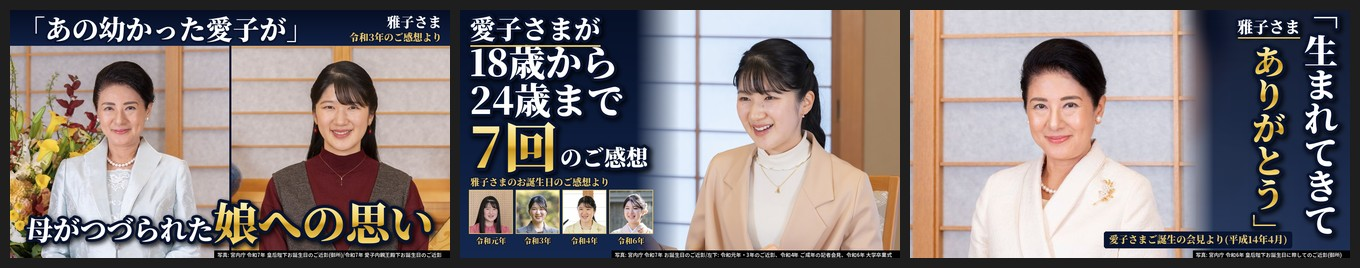
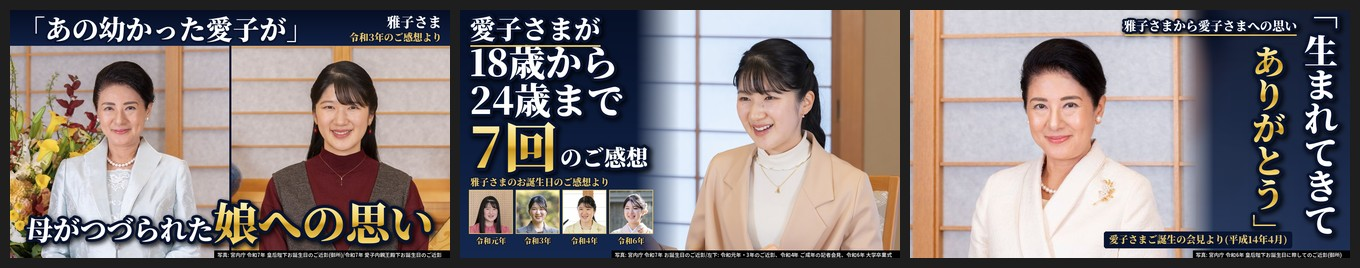
L4 表紙B・C 荒木指示の文字・ショート3本 書き出し(qa完成)
Claude-Session: https://claude.ai/code/session_01BJaPieHBuTRAAQkfULpzEX

Changed region(s): [[0.8029, 0.0597, 0.9574, 0.1493]]

diff --git a/projects/KB-20261125-01/thumb/make_thumbs.py b/projects/KB-20261125-01/thumb/make_thumbs.py
@@ -31,6 +31,8 @@ python3 projects/KB-20261125-01/thumb/make_thumbs.py で thumb_A.png・thumb_B.p
       縦書きのかぎかっこは縦書き用の字形(﹁ ﹂)のまま、文字と離して置き直した(前は「生」「う」に食い込んで横書きの形に見えた)
 2026-11-25 直し係(荒木指示 2026-11-25。表紙B の文字だけ。A・C は触らない):
   B = 左上の主語の表示「愛子さま」→「愛子さまが」。ほかの文字・出典・写真・構図はそのまま
+2026-11-25 直し係(追加の荒木指示 2026-11-25。表紙C の小さな文字だけ。A は触らない):
+  C = 小さな「雅子さま」→「雅子さまから愛子さまへの思い」(横書き1行・36px・右寄せ)。縦書きの引用・出典・写真・構図はそのまま
 """
 import sys
 from pathlib import Path
@@ -202,8 +204,9 @@ def v1(out, path, focus, fh, xy, col_w, col_g, src, cap, who=None):
         return y
     column(*col_w); yb = column(*col_g)
     if who:   # 誰の言葉か: 金の行の上(横書き・小さめ)。(文字, 大きさ, 中心y)。下に細い金の線
-        ws, wn, wy = who
-        text(im, (col_g[0], wy), ws, wn, sw=6, anchor="mm"); wb = bbox(im, (col_g[0], wy), ws, wn, "mm", 6); boxes.append(wb)
+        ws, wn, wy = who[:3]
+        wx, wa = (who[3], "rm") if len(who) > 3 else (col_g[0], "mm")   # 4つ目があれば右端の x(右寄せ)。長い一言を白い行の左に収める
+        text(im, (wx, wy), ws, wn, sw=6, anchor=wa); wb = bbox(im, (wx, wy), ws, wn, wa, 6); wbox = tuple(int(v) for v in wb)
         ImageDraw.Draw(im).rectangle((wb[0] + 8, wb[3] + 1, wb[2] - 8, wb[3] + 4), fill=SRC_GOLD)
     # 出典(小さく・金の行の下)。文字の数には入れない
     sx = col_g[0] + col_g[3] // 2 + 6
@@ -211,15 +214,17 @@ def v1(out, path, focus, fh, xy, col_w, col_g, src, cap, who=None):
     sb = (sb[0] - 12, sb[1] - 5, sb[2] + 10, sb[3] + 5)   # 出典が写真(白いお召し物)にかかるので、濃紺の札を敷いて読めるようにする
     ImageDraw.Draw(im).rounded_rectangle(sb, radius=6, fill=(8, 20, 48))
     text(im, (sx, yb + 30), src, 28, fill=SRC_GOLD, sw=3, shadow=False, anchor="rm")
-    tbox = union(boxes + [sb])
+    tbox = union(boxes + [sb] + ([wbox] if who else []))
     if tbox[3] > H - 24 or tbox[2] > W - 8 or tbox[1] < 4:
         raise SystemExit(f"{out}: 縦書きの文字が画面からはみ出しています {tbox}")
     credit(im, cap, [tbox], right=CREDIT_RIGHT)
     im.save(out)
     # お顔との重なりは、縦書き(名前を含む)の枠と出典の札を別々の枠で確かめる(まとめた1つの枠だと、文字のない所までお顔と重なる扱いになるため)
     cbox = union(boxes); sbox = tuple(int(v) for v in sb)
-    print(out, "縦書きの枠", cbox, "/ 出典の札", sbox, "/ 全体", tbox)
-    if not check_faces(out, faces, [cbox, sbox]):
+    if who and any(wbox[0] < b[2] and wbox[2] > b[0] and wbox[1] < b[3] and wbox[3] + 4 > b[1] for b in boxes):
+        raise SystemExit(f"{out}: 上の一言が縦書きの文字と重なっています {wbox}")
+    print(out, "縦書きの枠", cbox, "/ 上の一言", wbox if who else None, "/ 出典の札", sbox, "/ 全体", tbox, "/ お顔", [tuple(int(v) for v in head_box(f)) for f in faces])
+    if not check_faces(out, faces, [cbox, sbox] + ([wbox] if who else [])):
         raise SystemExit(f"{out}: お顔が文字と重なるか見切れています")
 
 
@@ -238,14 +243,15 @@ r1(O + "thumb_B.png", A + "A059.jpg", (385 / 666, 425 / 1000, 150 / 1000), 205, 
 
 # C 人物の物語型(題名C): 雅子さまお一人の写真 A021(令和6年 皇后陛下お誕生日のご近影・長辺1000px)を1枚・左寄せ(お顔は左1/3)。
 #   右に縦書きで「生まれてきて/ありがとう」(平成14年4月2日 御誕生につき記者会見の原文の一部を一字一句)。右の行=白・左の行=金
-#   文字は1か所(縦書き2行・11字＋かぎかっこ)＋小さい名前「雅子さま」(金の行の上)＋小さい出典。上の帯は使わない
+#   文字は縦書き2行・11字＋かぎかっこ＋上の小さい一言「雅子さまから愛子さまへの思い」(横書き・かぎかっこなし＝当チャンネルの見出し。
+#   荒木指示 2026-11-25 で「雅子さま」から替えた。金の行の上・白い行の左に右寄せ)＋小さい出典。上の帯は使わない
 #   かぎかっこ内は原文の一部のまま。呼びかけ(「愛子、」など)は原文にないので足さない
 #   言葉は平成14年・写真は令和6年なので、出典「愛子さまご誕生の会見より(平成14年4月)」とクレジット「令和6年」で年を分けて示す(年月は会見の日付。ご誕生は平成13年12月1日)
 v1(O + "thumb_C.png", A + "A021.jpg", None, 245, (425, 305),
    (1196, 12, "生まれてきて", 98, "white", "﹁", None),
    (1044, 96, "ありがとう", 96, "gold", None, "﹂"),
    "愛子さまご誕生の会見より(平成14年4月)",
-   "写真: 宮内庁 令和6年 皇后陛下お誕生日に際してのご近影(御所)", who=("雅子さま", 46, 46))
+   "写真: 宮内庁 令和6年 皇后陛下お誕生日に際してのご近影(御所)", who=("雅子さまから愛子さまへの思い", 36, 44, 1126))
 
 # 3枚を縮小して並べた一覧(ひと目で別の表紙に見えるかの確認用)
 sheet = Image.new("RGB", (3 * 440 + 40, 248 + 20), (30, 30, 30))

diff --git a/projects/KB-20261125-03/factcheck.md b/projects/KB-20261125-03/factcheck.md
@@ -1,109 +1,111 @@
-# 事実確認 KB-20261125-03(縦型・誘導用ショート S2「令和3年 雅子さまのご感想 ― あの幼かった愛子が」)
+# 事実確認 KB-20261125-03(縦型・誘導用ショート S2「令和3年 雅子さまのご感想 ― あの幼かった愛子が」)【再照合・直しの後】
 
-確認日: 2026-11-25 / 事実確認係
-照合対象: script.md(9場面・12カット)/ scenes.json(ナレーション・字幕・根拠ID・画面の人物名 person_label / labels・撮影情報 caption / captions・match)/ ledger.csv(使用12枚)/ publish.yaml(題名)/ facts.md
-方法: 宮内庁の各ページをこの係が 2026-11-25 に curl で取り直し、ルビ(`<rt>`)とタグを除いた全文と照合した。かぎかっこの引用は scenes.json のナレーションから機械で抜き出し、原文に同じ文字列があるかを確かめた(読点「，」・句点も含む)。字幕(subtitle_lines / subtitle)は全場面をつなげてナレーションと比べた。script.md の場面表と scenes.json(ナレーション・画像・人物名・撮影情報・根拠ID)も全場面を比べた。写真は ledger.csv の掲載ページを全て取り直し、説明文・注記・日付を読み、素材ファイルが掲載元の画像と同じもの(SHA-256 一致)であることも確かめた。
+確認日: 2026-11-25(2回目)/ 事実確認係
+照合対象: fixes.md の直し(直し係の分と、親=進行役の判断の分)を反映した script.md(10場面・13カット)/ scenes.json(ナレーション・字幕 subtitle_lines・根拠ID・画面の人物名・撮影情報・match)/ ledger.csv(使用13枚)/ publish.yaml・plan.md(題名)/ facts.md
+方法: 宮内庁の各ページをこの係が 2026-11-25 にもう一度 curl で取り直し、ルビとタグを除いた全文と照合した。かぎかっこの引用は scenes.json から機械で抜き出し、原文に同じ文字列があるかを確かめた。字幕(subtitle_lines)は全場面をつなげてナレーションと1字ずつ比べた(読点・句点も見た。書き出しの道具の照合は今は読点を無視するので、この係は無視せずに比べた)。script.md の場面表と scenes.json は全場面・全欄を比べた。写真は ledger.csv の掲載ページと画像を全て取り直し、説明文・注記・日付を読み、素材ファイルが掲載元の画像と同じもの(SHA-256 一致)であることを確かめた。新しく入った写真は素材も目で見た(写っている人数と場面だけ。お顔での識別はしていない)。
 区分: 確認済 = 宮内庁の原文で確認 / 分析 = この動画の整理と分かる言い方 / single_source = 出どころが1つで原典を開けない(使わせない)/ unverified = 確認できない(使わせない)
-大手報道との照合: 今回の事実は全て宮内庁の原文で足りるため、報道は根拠に使っていない(親 KB-20261125-01 の確認時、NHK・時事・朝日・読売・毎日はこの環境の通信許可の外で開けなかった)。報道1社だけを根拠にした事実はない。
+大手報道との照合: 事実は全て宮内庁の原文で足りるため、報道は根拠に使っていない(報道各社はこの環境の通信許可の外)。報道1社だけを根拠にした事実はない。single_source・unverified は0件。
 
 ## 出典(今回取り直したもの)
 - K3: 皇后陛下お誕生日に際し(令和3年)ご感想 https://www.kunaicho.go.jp/watch/okotoba/imperial-family01/press-conference/empress2021.html
-- K1〜K7: 同(令和元〜7年) empress2019.html 〜 empress2025.html(empress2026.html は 404)
-- CP: 皇太子妃殿下お誕生日に際し(平成30年) 同 /press-conference/crownprincess2018.html、一覧 同 /press-conference/
+- K1〜K7: 同(令和元〜7年) empress2019.html 〜 empress2025.html(empress2026.html は今日も 404)
 - SK: 愛子内親王殿下ご成年をお迎えになっての記者会見 https://www.kunaicho.go.jp/watch/activity/activity01/activity01-r040317.html
 - H01: 天皇ご一家(ご略歴) https://www.kunaicho.go.jp/learn/about/history/history01.html
-- 写真の掲載ページ: 第4節の表のURL(全て宮内庁)
+- 写真の掲載ページ: 第4節の表(全て宮内庁)。新年のご近影の年は英語版 https://www.kunaicho.go.jp/en/newyear/r03-0101-ph.html の題名で確認
 
 ## 0. 結論(先に)
 
-- かぎかっこの引用2か所(02-2・03-2)は、どちらも K3 の原文の1文全体と一字一句同じ(読点は全角カンマ「，」、文末の句点まで)。
-- 2文は原文で続いており(④→⑤)、03-1「この文に続けて書かれた」は確認済。
-- 「くれて」入りの形も「生まれてきてありがとう」も、この1本には出てこない。
-- 撮影情報の日付・年・場所は、12枚とも掲載ページと合う。
-- **修正必須が1件ある。** 05-1 の誘導文「7回のご感想」は、限定がないと宮内庁の掲載と合わない(第5節 修正1)。
-- 要確認は3件(第6節)。
+- 前回の修正必須(05-1「7回のご感想」)は直っている。今の文「雅子さまのお誕生日のご感想は、長い動画でたどります。」は確認済。「7回」は画面に出る文字・ナレーション・match のどこにもない(機械照合で0件)。
+- 題名「…愛子さまが成年を迎えた年に書かれた一文とは？」は確認済(第3節)。
+- かぎかっこの引用2か所は、ナレーションでは K3 の原文の1文全体と一字一句同じ(全角カンマ「，」・句点まで)。
+- 新しい場面 04-1(まとめ)と、新しく入った写真 A031・A041 の人物名・撮影情報は確認済。A042(代替テキストと人数が合わない1枚)は使われなくなった。
+- 修正必須は0件。軽い直しが2件(画面に出ない書類。第5節)。
+- **要確認が1件、荒木さんの判断が要る。** 02-2 の字幕だけ、引用の中の読点「，」が1つ省かれている(第6節 要確認1)。言葉は原文と同じで、ナレーションは原文のまま。
 
-## 1. ナレーションの照合(全9場面)
+## 1. ナレーションの照合(全10場面)
 
 | 場面 | ナレーション | 結果 | 根拠 |
 |---|---|---|---|
-| 01-1 | 愛子さまの成年に雅子さまが書かれた一言とは？ | 確認済 | K3 書き出しの段落(愛子さまの成年について書かれている)。文書のご感想で「書かれた」は合う |
-| 02-1 | 令和3年、お誕生日のご感想にこう書かれています。 | 確認済 | K3 表題 `皇后陛下お誕生日に際し（令和3年）`、見出し `皇后陛下お誕生日に際してのご感想`、日付 `令和3年12月9日（木）`。ページに「会見年月日」の記載はない |
+| 01-1 | 愛子さまの成年に雅子さまが書かれた一文とは？ | 確認済 | K3 書き出しの段落 `今月初めには娘の愛子が成年を迎え，`。答え(03-2)は1文全体なので「一文」は合う。文書のご感想で「書かれた」も合う |
+| 02-1 | 令和3年、お誕生日のご感想にこう書かれています。 | 確認済 | K3 表題 `皇后陛下お誕生日に際し（令和3年）`、見出し `皇后陛下お誕生日に際してのご感想`、日付 `令和3年12月9日（木）` |
 | 02-2 | 「愛子が生まれてからの20年間は…感慨深く思います。」 | 確認済(引用一致) | 第2節 |
-| 03-1 | この文に続けて書かれた一言とは、何だったのでしょうか。 | 確認済 | K3 では 02-2 の文のすぐ後に 03-2 の文が続く(間に他の文はない) |
+| 03-1 | この文に続けて書かれた一文とは、何だったのでしょうか。 | 確認済 | K3 では 02-2 の文のすぐ後に 03-2 の文が続く(間に他の文はない) |
 | 03-2 | 答えは、「同時に，あの幼かった愛子が…気持ちもいたします。」 | 確認済(引用一致) | 第2節 |
-| 04-1 | 親としての20年が表れた一文なのかもしれません。 | 分析 | 推量の言い方。「20年」は原文の `20年間` による |
-| 05-1 | 7回のご感想は、長い動画でたどります。 | **要修正(unverified 扱い)** | 第5節 修正1 |
+| 04-1(新) | 幼かった愛子さまがもう成年かと書かれた一文でした。 | 確認済 | 原文 `あの幼かった愛子がもう成年かと思いますと，` の範囲を地の文で言い直したもの。かぎかっこはなく、原文にない言葉を足していない。「信じられない」だけの切り出しもない |
+| 04-2 | 親としての20年が表れた一文なのかもしれません。 | 分析 | 推量の言い方。「20年」は原文の `20年間` による |
+| 05-1 | 雅子さまのお誕生日のご感想は、長い動画でたどります。 | 確認済 | K1〜K7 の見出し `皇后陛下お誕生日に際してのご感想`。親 KB-20261125-01 の台本「宮内庁が公表している全文を、年の順にたどります。」と中身が合う。数・日付は言っていない |
 | 06-1 | 皆さまは、ご家族の成長をどんな時に感じますか？ | 事実なし(問いかけ) | - |
 | 06-2 | ぜひコメントでお聞かせください。 | 事実なし(お願い) | - |
 
-- 題名(publish.yaml・plan.md)「【雅子さまのお誕生日のご感想】愛子さまが成年を迎えた年に書かれた一言とは？」: 確認済(成年は令和3年12月1日、ご感想は同じ年の12月9日付。K3 `今月初めには娘の愛子が成年を迎え，`)。
-- 完成ナレーションの節と scenes.json のナレーションは9場面とも同じ文字。字幕は9場面ともナレーションと同じ文字(地の文の文末の「。」を省いているだけ。かぎかっこの中は「，」「。」まで同じ)。
-- 入っていないことを確かめたもの: 「語られた」「会見で」、「信じられない」だけの切り出し、「書き出しに出てくるのはこの年だけ」、体調に触れる段落・医師団見解、表情・内心の描写、西暦の表示。
+- script.md の完成ナレーション・場面表(ナレーション・画像・人物名・撮影情報・match・根拠)と scenes.json は10場面とも同じ。
+- 字幕は、02-2 の読点1つ(要確認1)を除き、10場面ともナレーションと同じ文字(地の文の文末の「。」を省いているだけ)。
+- 入っていないことを確かめたもの: 「7回」、「語られた」「会見で」、「一言」(本編は全て「一文」)、「信じられない」だけの切り出し、「書き出しに出てくるのはこの年だけ」、体調に触れる段落・医師団見解、表情・内心の描写、「くれて」入りの形・「生まれてきてありがとう」、西暦・公開日の表示。
 
 ## 2. かぎかっこの引用(一字一句)
 
-| 場面 | 台本・字幕の引用 | 原文(K3・取り直した本文) | 結果 |
-|---|---|---|---|
-| 02-2 | 「愛子が生まれてからの20年間は長かったようにも，あっという間だったようにも感じられますが，様々な思い出が思い起こされて感慨深く思います。」 | 書き出しの段落の4文目。同じ文字列が原文にある(文頭から句点まで1文全体) | 一致 |
-| 03-2 | 「同時に，あの幼かった愛子がもう成年かと思いますと，信じられないような気持ちもいたします。」 | 同じ段落の5文目(4文目のすぐ後)。同じ文字列が原文にある(文頭の `同時に，` から句点まで1文全体) | 一致 |
+| 場面 | 台本(ナレーション)の引用 | 原文(K3・取り直した本文) | ナレーション | 字幕 |
+|---|---|---|---|---|
+| 02-2 | 「愛子が生まれてからの20年間は長かったようにも，あっという間だったようにも感じられますが，様々な思い出が思い起こされて感慨深く思います。」 | 書き出しの段落の4文目。文頭から句点まで1文全体 | 一致 | 読点1つだけ違う(`感じられますが，` → 字幕は「感じられますが」。要確認1)。ほかの文字・読点・句点は同じ |
+| 03-2 | 「同時に，あの幼かった愛子がもう成年かと思いますと，信じられないような気持ちもいたします。」 | 同じ段落の5文目(4文目のすぐ後)。文頭の `同時に，` から句点まで1文全体 | 一致 | 一致 |
 
 - 原文の名前は `愛子`。かぎかっこの中はそのまま、地の文は「愛子さま」「雅子さま」。
-- 字幕の改行(「感じられますが，様々な」など)は文字を変えていない。
+- 「同時に，」が受ける直前の文を先に全文で読んでから答えを出しており、切り取りで意味は変わっていない。
 
 ## 3. 重点項目
 
-### 「生まれてきてくれてありがとう」と「生まれてきてありがとう」
-この1本のナレーション・字幕・撮影情報・match には、どちらの形も出てこない(機械照合で0件)。問題なし。
+### 題名「【雅子さまのお誕生日のご感想】愛子さまが成年を迎えた年に書かれた一文とは？」(publish.yaml・plan.md)
+| 部分 | 結果 | 根拠 |
+|---|---|---|
+| 雅子さまのお誕生日のご感想 | 確認済 | K3 見出し `皇后陛下お誕生日に際してのご感想` |
+| 愛子さまが成年を迎えた年 | 確認済 | H01 `平成13年12月1日ご誕生` → 令和3年12月1日に20歳。K3 は同じ年の `令和3年12月9日（木）` 付で、本文に `今月初めには娘の愛子が成年を迎え，` |
+| 書かれた | 確認済 | 文書のご感想(記者会見ではない) |
+| 一文とは？ | 確認済 | 答えは K3 の1文全体(句点まで)。「一言」より事実に合う言い方で、本編の「一文」(01-1・03-1・04-1・04-2)ともそろった |
+- 題名のかぎかっこの引用はない。西暦・日付・数もない。
+- この題名の変更は G0 承認(「一言とは？」)の後に進行役が決めたもの。事実としては問題ない。荒木さんへの報告は進行役の fixes.md のとおり、完成報告で伝えること(事実確認では承認の代わりにならない)。
 
 ### 05-1 誘導文
-第5節 修正1のとおり。
+第1節のとおり確認済。match の「7回目(令和7年)」という書き方もなくなった。
 
-## 4. 画面の人物名・撮影情報の照合(使用12枚)
+## 4. 画面の人物名・撮影情報の照合(使用13枚)
 
-素材ファイルは12枚とも掲載元の画像と SHA-256 が一致。同じ写真の使用は各1回。
+素材ファイルは13枚とも掲載元の画像と SHA-256 が一致。同じ写真の使用は各1回(13カット・13枚)。A042 は台帳に「不使用」とあり、scenes.json にも出てこない。
 
 | 場面 | 画像 | 人物名(画面) | 撮影情報(画面) | 掲載ページの記載(取り直し) | 結果 |
 |---|---|---|---|---|---|
-| 01-1 | A007 | 雅子さま | 令和3年 皇后陛下お誕生日(12月9日)に際してのご近影 | activity/gokinkyo/02/r03-1209-ph.html: 題名 `令和3年皇后陛下お誕生日に際してのご近影（お写真）`、画像 birthday1。12月9日は H01 `昭和38年12月9日` | 確認済 |
-| 02-1 | A032 | 雅子さま | 同上 | K3 のページ内の画像(data/pressConference/49/block/929/image1.jpeg)、説明 `皇后陛下お誕生日に際してのご近影`。ページの日付 `令和3年12月9日（木）` | 確認済 |
+| 01-1 | A007 | 雅子さま | 令和3年 皇后陛下お誕生日(12月9日)に際してのご近影 | gokinkyo/02/r03-1209-ph.html: 題名 `令和3年皇后陛下お誕生日に際してのご近影（お写真）`、画像 birthday1。12月9日は H01 `昭和38年12月9日` | 確認済 |
+| 02-1 | A032 | 雅子さま | 同上 | K3 のページ内の画像、説明・代替テキスト `皇后陛下お誕生日に際してのご近影`。ページの日付 `令和3年12月9日（木）` | 確認済 |
 | 02-2 | A037 | 愛子さま | 令和元年 愛子内親王殿下お誕生日(12月1日)に際してのご近影(赤坂御所) | activity01-r011201ph3.html: `令和元年12月1日`、`（赤坂御所にて）`、1枚目・代替テキスト `愛子内親王殿下のお写真` | 確認済 |
 | 02-2 | A040 | 愛子さま | 令和2年 愛子内親王殿下お誕生日(12月1日)に際してのご近影(赤坂御用地) | activity01-r021201ph3.html: `令和2年12月1日`、`（赤坂御用地にて）`、1枚目・代替テキスト `愛子内親王殿下のお写真` | 確認済 |
-| 02-2 | A042 | 愛子さま | 令和2年 愛子内親王殿下お誕生日(12月1日)に際してのご近影 | 同ページの3枚目。代替テキストは `皇太子殿下及び愛子内親王殿下のお写真` だが、写っているのはお一人と犬1頭(素材を見て確認)。ページ題名は `愛子内親王殿下のお誕生日に際してのご近影` | 確認済(要確認2) |
-| 03-1 | A069 | 天皇皇后両陛下・愛子さま | 令和3年 新年をお迎えになったご一家のご近影(赤坂御所) | activity/gokinkyo/newyear/r03-0101-ph.html: `（赤坂御所にて）`、代替テキスト `新年をお迎えになった天皇皇后両陛下及び愛子内親王殿下のお写真`。年は英語版 en/newyear/r03-0101-ph.html の題名 `New Year (2021)` | 確認済 |
-| 03-2 | A043 | 愛子さま | 令和3年 愛子内親王殿下お誕生日(12月1日)に際してのご近影(御所御内庭) | activity01-r031201ph3.html: `令和3年12月1日`、`（御所御内庭（大池付近）にて）` の後に1枚目(代替テキスト `愛子内親王殿下のお写真`)・2枚目 | 確認済 |
+| 02-2 | A041(新規) | 愛子さま | 令和2年 愛子内親王殿下お誕生日(12月1日)に際してのご近影 | 同ページの2枚目。代替テキスト `愛子内親王殿下のお写真`。写っているのはお一人と犬1頭。撮影情報に場所は出していない | 確認済(前回の要確認2は解消。代替テキストと写る人数が合う写真になった) |
+| 03-1 | A031(新規) | 雅子さま | 令和2年 皇后陛下お誕生日(12月9日)に際してのご近影 | empress2020.html(表題 `皇后陛下お誕生日に際し（令和2年）`、日付 `令和2年12月9日（水）`)のページ内の画像。説明・代替テキスト `皇后陛下お誕生日に際してのご近影`。写っているのはお一人 | 確認済 |
+| 03-2 | A043 | 愛子さま | 令和3年 愛子内親王殿下お誕生日(12月1日)に際してのご近影(御所御内庭) | activity01-r031201ph3.html: `令和3年12月1日`、`（御所御内庭（大池付近）にて）` の後の1枚目(代替テキスト `愛子内親王殿下のお写真`) | 確認済 |
 | 03-2 | A044 | 愛子さま | 同上 | 同ページの2枚目(`（三の丸尚蔵館にて）` の注記より前) | 確認済 |
 | 04-1 | A045 | 愛子さま | 令和3年 愛子内親王殿下お誕生日(12月1日)に際してのご近影 | 同ページの3枚目(`（三の丸尚蔵館にて）` の後)。撮影情報に場所は出していない | 確認済 |
-| 05-1 | A025 | 雅子さま | 令和7年 皇后陛下お誕生日(12月9日)に際してのご近影(御所) | watch/gokinkyo/gokinkyo01/r07-1209-ph.html: 題名 `令和7年皇后陛下お誕生日に際してのご近影（お写真）`、`（御所にて）`、画像 birthday2 | 確認済 |
+| 04-2 | A069 | 天皇皇后両陛下・愛子さま | 令和3年 新年をお迎えになったご一家のご近影(赤坂御所) | newyear/r03-0101-ph.html: `（赤坂御所にて）`、代替テキスト `新年をお迎えになった天皇皇后両陛下及び愛子内親王殿下のお写真`。年は英語版の題名 `New Year (2021)` | 確認済 |
+| 05-1 | A025 | 雅子さま | 令和7年 皇后陛下お誕生日(12月9日)に際してのご近影(御所) | gokinkyo01/r07-1209-ph.html: 題名 `令和7年皇后陛下お誕生日に際してのご近影（お写真）`、`（御所にて）`、代替テキスト `写真：令和7年皇后陛下お誕生日に際してのご近影` | 確認済 |
 | 06-1 | A061 | 愛子さま | 令和4年3月17日 ご成年をお迎えになっての記者会見(御所大広間) | SK `会見年月日：令和4年3月17日` `会見場所：御所大広間`、説明 `記者会見をなさる愛子内親王殿下` `（御所大広間）` | 確認済 |
-| 06-2 | A014 | 雅子さま | 令和5年 皇后陛下お誕生日(12月9日)に際してのご近影(御所小広間) | activity/gokinkyo/02/r05-1209-ph.html: 題名 `令和5年皇后陛下お誕生日に際してのご近影（お写真）`、`（御所小広間にて）`(注記はページに1つ)、画像 birthday1 | 確認済 |
+| 06-2 | A014 | 雅子さま | 令和5年 皇后陛下お誕生日(12月9日)に際してのご近影(御所小広間) | gokinkyo/02/r05-1209-ph.html: 題名 `令和5年皇后陛下お誕生日に際してのご近影（お写真）`、`（御所小広間にて）` | 確認済 |
 
-- 人物名は、掲載ページの題名・説明文・代替テキストの方と合う(お顔での識別はしていない)。
-- 02-2 の引用(20年間)に令和元年・2年の写真、03-1 に令和3年の新年の写真が付くが、どれも撮影情報に年と行事が出ている。ご近影のページに撮影日の記載はなく、「撮影日」と言い切る表示は画面にない。
-- 05-1 の match「7回目(令和7年)」は確認済(令和元年から数えて7回目が令和7年)。
-- script.md の場面表 03-2 の撮影情報は1つだけ書いてあり、scenes.json は A043・A044 の2枚に同じ文を持つ。中身は同じ。
+- 引用の年(令和3年)と違う年の写真(A037・A040・A041・A031・A025・A061・A014)は、どれも撮影情報に年(会見は年月日)と行事が出ている。ご近影のページに撮影日の記載はなく、「撮影日」と言い切る表示は画面にない。
 
 ## 5. 修正指示
 
-### 修正1(必須): 誘導文の「7回」に限定がない
+修正必須: なし。
 
-- 今の文(05-1): 「7回のご感想は、長い動画でたどります。」
-- 確かめたこと:
-  - 宮内庁の一覧「天皇ご一家の記者会見など」 https://www.kunaicho.go.jp/watch/okotoba/imperial-family01/press-conference/ には、「皇后陛下お誕生日に際し」(令和元〜7年の7件)とは別に「皇太子妃殿下お誕生日に際し」の見出しがあり、皇太子妃の時代にも「お誕生日に際してのご感想」が掲載されている(例: crownprincess2018.html の見出し `皇太子妃殿下お誕生日に際してのご感想`)。
-  - 「7回」が正しいのは「皇后になられてからの(令和元年〜7年の)お誕生日のご感想」に限った時だけ(empress2019〜2025.html の7ページ。各ページの見出し `皇后陛下お誕生日に際してのご感想`、日付は7回とも12月9日。empress2026.html は 404 = 令和8年分は未掲載)。
-  - 親の長尺は 003「皇后になられてからのご感想は7回。」と先に限定してから「7回」を使っている。このショートには、その限定がどこにもない(02-1 で「お誕生日のご感想」とは言っているが、皇后になられてからの数だとは言っていない)。
-- 判断: 限定なしの「7回のご感想」は、雅子さまのご感想が全部で7回という意味に読め、宮内庁の掲載と合わない。このままでは確認済にできない(unverified 扱い)。
-- 指示(どちらか):
-  - 案A(限定を足す): 「令和元年から7年まで、7回のお誕生日のご感想は、長い動画でたどります。」 … 皇太子妃の時代とも、令和8年分が掲載された後とも食い違わない。
-  - 案B(数を削る): 「雅子さまのお誕生日のご感想は、長い動画でたどります。」
-  - 「皇后になられてからの7回のご感想は…」でも今日の時点では正しいが、令和8年12月9日付のご感想が掲載されると「7回」が古くなる。使うなら案Aの年の言い方が安全。
-- 「長い動画でたどります」そのものは可: 親 KB-20261125-01 の台本 004「宮内庁が公表している全文を、年の順にたどります。」と、ナレーションに令和元年〜7年の7回分が出てくることを scenes.json で確かめた(このチームの動画の中身についての文で、公式記録の事実ではない)。日付・公開予定は言っていない。
-- 直す場所: script.md(完成ナレーション・場面表)と scenes.json(narration・subtitle_lines・subtitle)の 05-1。字幕も同じ文字に。
+軽い直し(画面に出ない。合否には入れていない):
+1. script.md に古い題名が残っている。1行目の見出し「…書かれた一言とは？」、型の行「(一場面×一言とは？)」、「呼び方」の行「題名は G0 承認済みの『一言とは？』のまま(要確認)」、要確認の節「題名の『一言』」。publish.yaml・plan.md は「一文とは？」。script.md を今の題名に合わせる。
+2. scenes.json の 02-2 は、subtitle_lines が [感じられますが] で、subtitle の欄は古い [感じられます/が，] のまま。書き出しの道具は subtitle_lines を使い、書き出しの時に subtitle を作り直すので画面には出ない。script.md の要確認の節「02-2 の字幕の改行(未解決)」も古い説明のまま。今の形に合わせて書き直す。
 
 ## 6. 要確認
 
-1. 01-1「愛子さまの成年に雅子さまが書かれた一言」と、答えの 03-2 は1文全体(40字を超える)。「一言」は題名どおりの言い方で事実の誤りではないが、決まりの確認係でも見てほしい。合否には入れていない。
-2. A042 は掲載ページの代替テキスト(`皇太子殿下及び愛子内親王殿下のお写真`)と写っている人数が合わない。ページ題名・日付・同じページの他の写真から愛子さまのご近影として確認済としたが、説明文そのものが写真と合わない1枚であることは残る。気になる場合は同じページの1枚目・2枚目(代替テキスト `愛子内親王殿下のお写真`)に替えると根拠がそろう(1枚目は A040 で使用中)。
+1. **02-2 の字幕で、引用の中の読点「，」が1つ省かれている(荒木さんの判断が要る)。**
+   - 原文・ナレーション: `…あっという間だったようにも感じられますが，様々な思い出が…`
+   - 字幕(subtitle_lines): [感じられますが] → [様々な/思い出が]。「が」の後の「，」がない。同じ引用の中の「長かったようにも，」と、03-2 の「同時に，」「思いますと，」の読点は字幕に残っている。
+   - 言葉は1字も変わっておらず、意味も変わらない。ただし共通ルールは「かぎかっこは出典と一字一句同じ」で、facts.md 注意3にも「字幕でかぎかっこに入れる時は読点も原文どおり」と書いてある。読点を「一字」に数えるなら、この1か所は原文と同じではない。
+   - 省いてよいという判断は進行役のもので(fixes.md「親(進行役)の判断」)、荒木さんの確認は記録にない。事実の誤りではないので合否には入れなかったが、決めるのは荒木さん。
+   - 認めない場合の形は、前の [感じられます/が，](行の頭が「が，」になる)か、文を地の文に変えるかで、どちらも字幕の決まり(第5章)との兼ね合いになる。
+   - あわせて: 書き出しの道具(rules_render.py)と G5(qa_rules.py)の照合は、今は行末に限らず全ての「、」「，」を無視する。引用の読点が変わっても道具では止まらない。今回この係が1字ずつ比べた結果、3本の中で読点が違うのはこの1か所だけ。
+2. 題名の変更(「一言」→「一文」)は G0 承認の後の変更。事実は確認済(第3節)。荒木さんへの報告が要る。
 3. 公開の扱い(facts.md 要確認①)は事実確認では決められない。この照合は script.md・scenes.json・ledger.csv・publish.yaml に対するもので、書き出した動画のコマは見ていない。
 
-判定: 不合格
+判定: 合格

diff --git a/projects/KB-20261125-01/fixes.md b/projects/KB-20261125-01/fixes.md
@@ -226,3 +226,20 @@ scenes.json・output/ には触っていない。`python3 projects/KB-20261125-0
 - 更新したファイル: thumb/make_thumbs.py(B の1行目の文字。金の線を引く条件を「愛子さま」で始まる行に)・thumb/thumb_B.png・thumb/abc_overview.jpg・thumb.yaml(patterns.B の upper・chars・note)・publish.yaml(ab_tests B の thumb_text 左上)
 - git commit はしていない
 - **要確認(確認係)**: 1字増えて B の見出しは2か所・21字になった(「2か所・合計20字前後」の範囲内と判断)。「愛子さまが 18歳から24歳まで 7回のご感想」と続けて読める形で、出典「雅子さまのお誕生日のご感想より」でご感想が雅子さまのものと分かる
+
+## 表紙C の小さな文字の直し(2026-11-25 直し係・追加の荒木指示 2026-11-25)
+
+荒木さんの追加の指示で、表紙C の縦書きの引用の上の小さな文字を直した。構図・写真・クレジットは変えていない。表紙A は触っていない(B は上の項の直しのまま)。
+
+| 表紙 | 直す前 | 直した後 |
+|---|---|---|
+| C | 小さな「雅子さま」(金の行の上・46px・中央) | 「雅子さまから愛子さまへの思い」(横書き1行・36px・右寄せ・下に細い金の線。金の行の上、白い行の左。かぎかっこなし＝当チャンネルの見出し) |
+
+- そのままのもの: 縦書きの引用「生まれてきて/ありがとう」(かぎかっこ内は原文の一部のまま。何も足していない)、出典「愛子さまご誕生の会見より(平成14年4月)」、写真 A021、クレジット
+- 置き方: 14字を前の位置(金の行の中央)に置くと画面の右にはみ出すため、右端を x1126 にそろえて左へ伸ばした。枠は x616〜1132・y22〜70。お顔の頭の範囲(髪から顎まで)は x241〜608・y47〜464 で、重ならない(間は8px。髪の右端は目で見て x570 あたりで、文字との間に障子の地が見える)
+- 作り直し: `python3 projects/KB-20261125-01/thumb/make_thumbs.py`。thumb_A.png・thumb_B.png は直す前の控えと cmp で1バイトも違わない。変わったのは thumb_C.png と abc_overview.jpg だけ
+- 検査: check_faces「顔の位置 OK」(上の一言は、縦書きの枠・出典の札とは別の枠で確かめる形にした)。credit 通過。上の一言と縦書きの文字の重なりも make_thumbs.py で確かめている。thumb_C.png と `thumb/abc_overview.jpg` を開いて目で確認した
+- 更新したファイル: thumb/make_thumbs.py(v1 の who に右寄せの x を足した・C の文字)・thumb/thumb_C.png・thumb/abc_overview.jpg・thumb.yaml(patterns.C の who・chars・note)・publish.yaml(ab_tests C の thumb_text「名前」→「上の一言」)
+- git commit はしていない。`bin/kabu run pub_check` も走らせていない(kabu は制作番号を引数に取らず、今の案件が KB-20261125-04 のため、-01 に当たるか分からない)
+- **要確認(確認係)**: C の文字は 引用11字＋上の一言14字＝25字になった(前は名前の札として数に入れていなかった)。「合計20字前後」を超える扱いになるかの採点をお願いします。荒木さんの文言指定どおりで、字数を理由に削ってはいない
+- **要確認(確認係)**: 上の一言は 36px(前の「雅子さま」は 46px)。1行に収めてお顔を避けるための大きさで、スマホでの読みやすさは一覧(440px 幅)で読める程度

diff --git a/projects/KB-20261125-02/qa_report.md b/projects/KB-20261125-02/qa_report.md
@@ -1,0 +1,28 @@
+# qa_report — KB-20261125-02(縦型)
+
+判定: **完成**
+
+| 項目 | 合否 | 実測・詳細 | 対応案 |
+|---|---|---|---|
+| 人物・日付・敬称・引用が facts.md と一致 | 合格 | facts.md あり / 未登録ID なし / 根拠IDの無い場面 なし |  |
+| 画像の人物名・撮影情報が ledger.csv と一致 | 合格 | 全場面一致(写真に写る人物そのものは要目視) |  |
+| ナレーション全文と字幕が一致 | 合格 | 全場面一致(誤字の有無は要目視) |  |
+| 揶揄・対立のNG語がない(第1-2章) | 合格 | なし |  |
+| 尺・解像度・fps・形式 | 合格 | 53.48秒 1080x1920 30.00fps h264/aac |  |
+| 画面上の文字が Noto Sans JP | 合格 | 字幕 {'Noto Sans JP'} / 表示文字 NotoSansJP-Bold.ttf |  |
+| 字幕の大きさが全て同じ(規定140px・縦型は1行7字まで・第5章) | 合格 | なし |  |
+| 字幕の書式(太字・縁取り・影・色)が全て同じ(第5章) | 合格 | スタイル 1種類 / 行ごとの書式変更 なし |  |
+| 字幕が画面からはみ出していない(最大限の大きさで) | 合格 | はみ出し なし(画面幅 1080px・余白各30px) |  |
+| ナレーションが青山龍星・速度0.92・抑揚1.45 | 合格 | speaker_id=13(/speakers から取得) speedScale=0.92 intonationScale=1.45 |  |
+| 第4章 切替間隔・最長表示・人物の割合・同一画像の回数 | 合格 | カット 12(目標15〜25) / 平均 4.46秒 / 最長 4.98秒(上限5.0) / 範囲外 なし / 人物・語る物が映る割合 100%(目標95%)・人物のみ 100%(75%以上) / 異なる画像 12枚(目標12) / 上限(1回)を超えた画像 なし |  |
+| 主役の位置が登録済み(ズーム・パンの開始位置) | 合格 | 未登録 なし |  |
+| 第4-2章 素材の豊富さ(隣接の重複・多様さ・図解の量) | 合格 | 隣り合う同じ画像 なし / 異なる画像÷カット数 1.00(目安0.6以上) / 図解・文字だけ 0.0秒(上限3秒) / 実写映像カット 0 |  |
+| 黒画面・無音・音割れ・BGM音量 | 合格 | 黒画面 なし / 無音 なし / ピーク -3.0dB / BGM はナレーションより約21dB低く(-16 vs -37 LUFS)(不自然なカットは要目視) |  |
+| 締めくくり(まとめ→問いかけ→コメントのお願い)と余韻(第1-4章) | 合格 | 締めくくりの場面 ['05-1', '05-2', '06-1', '07-1', '07-2'] / 最後の4場面に問いかけあり / 最後の言葉のあとの余韻 2.8秒(1.2秒以上) |  |
+| ナレーションが「です・ます」調(第1-5章) | 合格 | すべて です・ます調 |  |
+| ナレーションと画像の一致の理由が全場面にある(第4-3章) | 合格 | 全場面あり(内容の妥当性は当てっこ係が目視) |  |
+| 「答えは」の前に前置きがある(第1-4章) | 合格 | なし |  |
+| 冒頭の疑問に本編で回答 | 合格 | question=0 answer=あり(回答内容の妥当性は要目視) |  |
+
+## 実測値
+- 尺 53.48秒 / カット数 12 / 異なる画像 12枚 / 人物が映る割合 100% / 実写映像カット 0 / 図解 0.0秒

diff --git a/projects/KB-20261125-03/qa_report.md b/projects/KB-20261125-03/qa_report.md
@@ -1,0 +1,28 @@
+# qa_report — KB-20261125-03(縦型)
+
+判定: **完成**
+
+| 項目 | 合否 | 実測・詳細 | 対応案 |
+|---|---|---|---|
+| 人物・日付・敬称・引用が facts.md と一致 | 合格 | facts.md あり / 未登録ID なし / 根拠IDの無い場面 なし |  |
+| 画像の人物名・撮影情報が ledger.csv と一致 | 合格 | 全場面一致(写真に写る人物そのものは要目視) |  |
+| ナレーション全文と字幕が一致 | 合格 | 全場面一致(誤字の有無は要目視) |  |
+| 揶揄・対立のNG語がない(第1-2章) | 合格 | なし |  |
+| 尺・解像度・fps・形式 | 合格 | 57.45秒 1080x1920 30.00fps h264/aac |  |
+| 画面上の文字が Noto Sans JP | 合格 | 字幕 {'Noto Sans JP'} / 表示文字 NotoSansJP-Bold.ttf |  |
+| 字幕の大きさが全て同じ(規定140px・縦型は1行7字まで・第5章) | 合格 | なし |  |
+| 字幕の書式(太字・縁取り・影・色)が全て同じ(第5章) | 合格 | スタイル 1種類 / 行ごとの書式変更 なし |  |
+| 字幕が画面からはみ出していない(最大限の大きさで) | 合格 | はみ出し なし(画面幅 1080px・余白各30px) |  |
+| ナレーションが青山龍星・速度0.92・抑揚1.45 | 合格 | speaker_id=13(/speakers から取得) speedScale=0.92 intonationScale=1.45 |  |
+| 第4章 切替間隔・最長表示・人物の割合・同一画像の回数 | 合格 | カット 13(目標15〜25) / 平均 4.42秒 / 最長 4.98秒(上限5.0) / 範囲外 なし / 人物・語る物が映る割合 100%(目標95%)・人物のみ 100%(75%以上) / 異なる画像 13枚(目標12) / 上限(1回)を超えた画像 なし |  |
+| 主役の位置が登録済み(ズーム・パンの開始位置) | 合格 | 未登録 なし |  |
+| 第4-2章 素材の豊富さ(隣接の重複・多様さ・図解の量) | 合格 | 隣り合う同じ画像 なし / 異なる画像÷カット数 1.00(目安0.6以上) / 図解・文字だけ 0.0秒(上限3秒) / 実写映像カット 0 |  |
+| 黒画面・無音・音割れ・BGM音量 | 合格 | 黒画面 なし / 無音 なし / ピーク -3.0dB / BGM はナレーションより約21dB低く(-16 vs -37 LUFS)(不自然なカットは要目視) |  |
+| 締めくくり(まとめ→問いかけ→コメントのお願い)と余韻(第1-4章) | 合格 | 締めくくりの場面 ['04-1', '04-2', '05-1', '06-1', '06-2'] / 最後の4場面に問いかけあり / 最後の言葉のあとの余韻 2.8秒(1.2秒以上) |  |
+| ナレーションが「です・ます」調(第1-5章) | 合格 | すべて です・ます調 |  |
+| ナレーションと画像の一致の理由が全場面にある(第4-3章) | 合格 | 全場面あり(内容の妥当性は当てっこ係が目視) |  |
+| 「答えは」の前に前置きがある(第1-4章) | 合格 | なし |  |
+| 冒頭の疑問に本編で回答 | 合格 | question=0 answer=あり(回答内容の妥当性は要目視) |  |
+
+## 実測値
+- 尺 57.45秒 / カット数 13 / 異なる画像 13枚 / 人物が映る割合 100% / 実写映像カット 0 / 図解 0.0秒

diff --git a/projects/KB-20261125-04/qa_report.md b/projects/KB-20261125-04/qa_report.md
@@ -1,0 +1,28 @@
+# qa_report — KB-20261125-04(縦型)
+
+判定: **完成**
+
+| 項目 | 合否 | 実測・詳細 | 対応案 |
+|---|---|---|---|
+| 人物・日付・敬称・引用が facts.md と一致 | 合格 | facts.md あり / 未登録ID なし / 根拠IDの無い場面 なし |  |
+| 画像の人物名・撮影情報が ledger.csv と一致 | 合格 | 全場面一致(写真に写る人物そのものは要目視) |  |
+| ナレーション全文と字幕が一致 | 合格 | 全場面一致(誤字の有無は要目視) |  |
+| 揶揄・対立のNG語がない(第1-2章) | 合格 | なし |  |
+| 尺・解像度・fps・形式 | 合格 | 52.11秒 1080x1920 30.00fps h264/aac |  |
+| 画面上の文字が Noto Sans JP | 合格 | 字幕 {'Noto Sans JP'} / 表示文字 NotoSansJP-Bold.ttf |  |
+| 字幕の大きさが全て同じ(規定140px・縦型は1行7字まで・第5章) | 合格 | なし |  |
+| 字幕の書式(太字・縁取り・影・色)が全て同じ(第5章) | 合格 | スタイル 1種類 / 行ごとの書式変更 なし |  |
+| 字幕が画面からはみ出していない(最大限の大きさで) | 合格 | はみ出し なし(画面幅 1080px・余白各30px) |  |
+| ナレーションが青山龍星・速度0.92・抑揚1.45 | 合格 | speaker_id=13(/speakers から取得) speedScale=0.92 intonationScale=1.45 |  |
+| 第4章 切替間隔・最長表示・人物の割合・同一画像の回数 | 合格 | カット 13(目標15〜25) / 平均 4.01秒 / 最長 4.98秒(上限5.0) / 範囲外 なし / 人物・語る物が映る割合 100%(目標95%)・人物のみ 100%(75%以上) / 異なる画像 13枚(目標12) / 上限(1回)を超えた画像 なし |  |
+| 主役の位置が登録済み(ズーム・パンの開始位置) | 合格 | 未登録 なし |  |
+| 第4-2章 素材の豊富さ(隣接の重複・多様さ・図解の量) | 合格 | 隣り合う同じ画像 なし / 異なる画像÷カット数 1.00(目安0.6以上) / 図解・文字だけ 0.0秒(上限3秒) / 実写映像カット 0 |  |
+| 黒画面・無音・音割れ・BGM音量 | 合格 | 黒画面 なし / 無音 なし / ピーク -3.0dB / BGM はナレーションより約21dB低く(-16 vs -37 LUFS)(不自然なカットは要目視) |  |
+| 締めくくり(まとめ→問いかけ→コメントのお願い)と余韻(第1-4章) | 合格 | 締めくくりの場面 ['04-1', '04-2', '05-1', '06-1', '06-2'] / 最後の4場面に問いかけあり / 最後の言葉のあとの余韻 2.8秒(1.2秒以上) |  |
+| ナレーションが「です・ます」調(第1-5章) | 合格 | すべて です・ます調 |  |
+| ナレーションと画像の一致の理由が全場面にある(第4-3章) | 合格 | 全場面あり(内容の妥当性は当てっこ係が目視) |  |
+| 「答えは」の前に前置きがある(第1-4章) | 合格 | なし |  |
+| 冒頭の疑問に本編で回答 | 合格 | question=0 answer=あり(回答内容の妥当性は要目視) |  |
+
+## 実測値
+- 尺 52.11秒 / カット数 13 / 異なる画像 13枚 / 人物が映る割合 100% / 実写映像カット 0 / 図解 0.0秒
